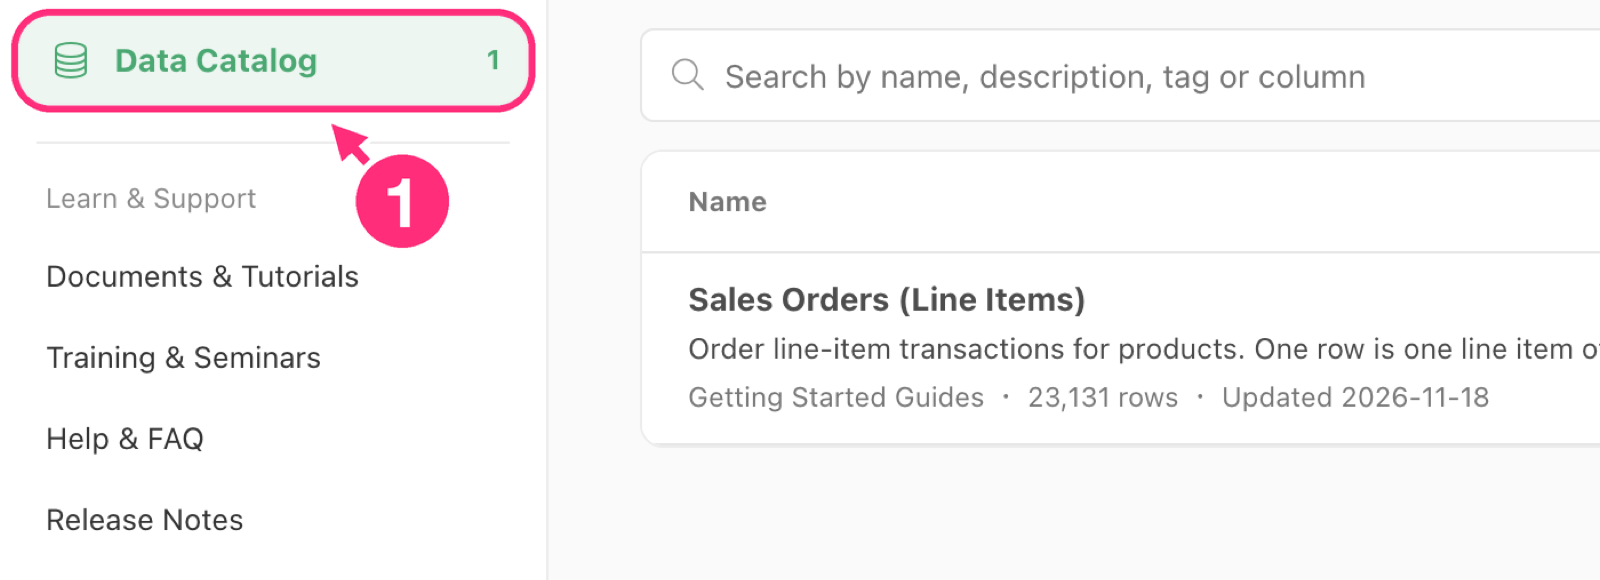
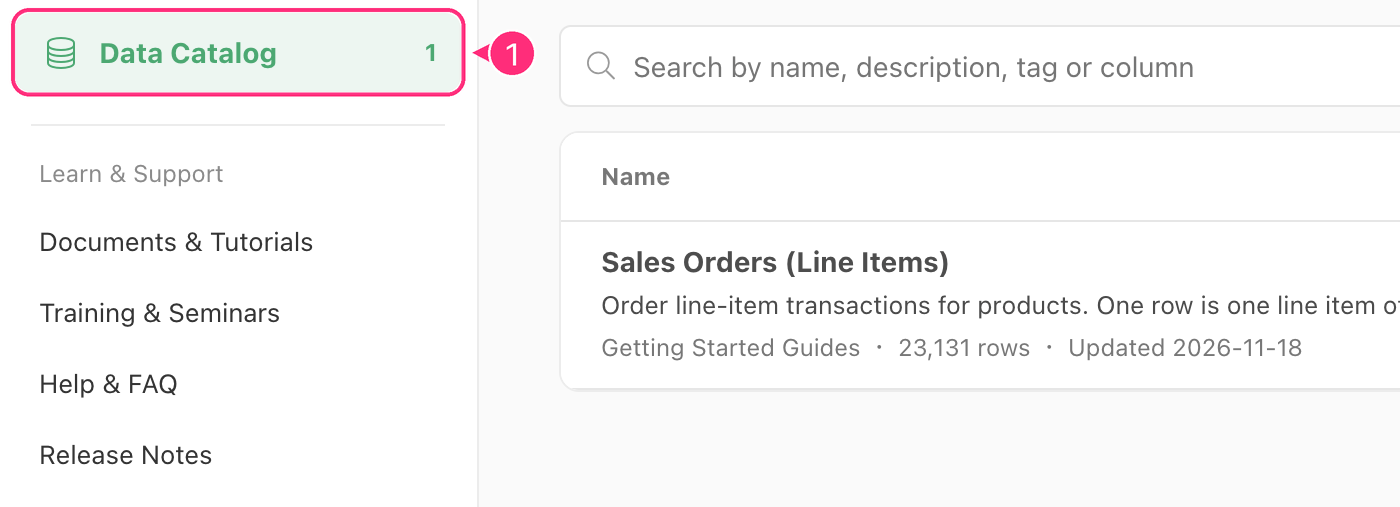
Align English data catalog docs with the re-shot screens; mark the schedule save button and redo the local list mark at one size

diff --git a/en/data-catalog/import.md b/en/data-catalog/import.md
@@ -12,7 +12,7 @@ In the "Import from Data Catalog" dialog, you can do more than bring published d
 2. In the Data Import menu, choose "Data Catalog"
 3. At the top of the "Import from Data Catalog" dialog, choose the "Server" or "Local" tab, depending on where the data is
 
-"Server" is the data catalog of Exploratory Server, and "Local" is the data catalog on this PC. The "Local" tab shows how many data items it holds. The tab you opened last is used the next time you open the dialog. In the image, the "Local" tab lists its data items. Data you have already imported is marked "Imported".
+"Server" is the data catalog of Exploratory Server, and "Local" is the data catalog on this PC. The "Local" tab shows how many data items it holds. The tab you opened last is used the next time you open the dialog. In the image, the "Local" tab lists three data items: "Orders", "Products" and "Customers".
 
 ![](images/en/dc-import-dialog.png)
 
@@ -42,7 +42,7 @@ When you choose data, the screen switches to one that shows the contents of the 
 
 Only the rows that match are imported. The sentence at the bottom becomes "Import {N} rows that match the filter."
 
-The next image shows an example with filters applied.
+The next image shows an example with two filters, "order_date: 2025-01-01 to 2025-12-31" and "channel: EC", that narrow 50,000 rows to 9,135.
 
 ![](images/en/dc-import-filter.png)
 
@@ -56,7 +56,7 @@ The following filters cannot be used for import. In that case, remove the filter
 1. Click "Columns" above the table. After you choose, it changes to "Columns {shown}/{total}"
 2. Check the columns to import. The search box narrows the column names. "Select all" and "Clear all" are also available
 
-The image shows a state where only some of the columns are chosen.
+The image shows a state where 5 of the 13 columns are chosen. "sales" is typed in the search box, and the "sales" column is chosen.
 
 Only the chosen columns are imported. The sentence at the bottom becomes "Import all {N} rows, with {chosen} of {total} columns." When a filter is also set, it becomes "Import {N} rows that match the filter, with {chosen} of {total} columns." At least one column must stay selected. A column used as a join key cannot be removed.
 
@@ -73,7 +73,7 @@ A join connects columns of other data in the Data Catalog to the data you import
 5. In the "Data to join: “{title}”" section, you can choose the columns, filters, and aggregation of the data to join, before joining
 6. The bottom of the screen shows the match rate and the number of rows after the join, for example "{N}% of {title} ({count} rows) found a match in {right} · {rows} rows after the join"
 
-The next image shows the join dialog before you click "Join". ①, ② and ③ on the screen correspond to steps 3, 4 and 5.
+The next image shows the dialog that joins "Products" to "Orders" with product_id as the key, before you click "Join". ①, ② and ③ on the screen correspond to steps 3, 4 and 5. The match rate is 100% (9,135 rows), and the result is 9,135 rows after the join.
 
 ![](images/en/dc-import-join.png)
 
@@ -95,7 +95,7 @@ An aggregation puts each group into one row before importing.
 
 The aggregation covers the rows left after filtering. The sentence at the bottom becomes "Import {N} rows (one per group) of the summary. Totals and subtotals are not imported." When you aggregate joined data, it becomes "Import {N} rows (one per group), aggregated from {original} + {joined}."
 
-The next image shows an example that groups joined data and totals a value with Sum.
+The next image shows an example that groups the joined data by "category" and "order_date" (by month) and totals "sales" with Sum. It makes 60 rows.
 
 ![](images/en/dc-import-aggregate.png)
 
@@ -106,7 +106,7 @@ An aggregation that has columns (a pivot table) cannot be imported. In that case
 1. Check the settings and click "Import"
 2. Enter a name for the data frame and click "OK"
 
-The imported data is added to the project as a data frame. It appears in the Steps panel on the right as a "Data Catalog" step, as the image shows.
+The imported data is added to the project as a data frame. It appears in the Steps panel on the right as a "Data Catalog" step, as the image shows. The image is an example where a data frame of 60 rows and 3 columns (category, order_date, sales) was created.
 
 ![](images/en/dc-import-result.png)
 

diff --git a/en/data-catalog/publish.md b/en/data-catalog/publish.md
@@ -38,11 +38,11 @@ To update data you have already published, publish it again in the same way. Whe
 
 ## See the local Data Catalog list
 
-The "Data Catalog" tab of the window that lists your projects shows the local data catalog on this PC. In the image, ❶ is that tab. The number is how many data items it holds. This image is from before anything was published, so it shows 0.
+The "Data Catalog" tab of the window that lists your projects shows the local data catalog on this PC. In the image, ❶ is that tab. The number is how many data items it holds. In the image, the catalog holds 1 data item.
 
 ![](images/en/dc-local-01.png)
 
-Data you publish to Local appears in the list. In each row, check the number of rows, the refresh status, and the MCP checkbox.
+Data you publish to Local appears in the list. The next image is the list after "Orders", "Products" and "Customers" of the "Sales Analysis" project were published to Local. The search box is filtered by "Sales Analysis". In each row, check the number of rows, the refresh status, and the MCP checkbox.
 
 ![](images/en/dc-local-list.png)
 
@@ -70,7 +70,7 @@ The "⋯" menu at the top right has these actions.
 - **Export as EDF**: Writes the data out as an EDF file
 - **Delete**: Removes it from the catalog. The files saved on this PC are deleted too
 
-The next image shows the details screen on the "Table" tab, with the "⋯" menu open.
+The next image shows the details screen of "Orders" on the "Table" tab, with the "⋯" menu open.
 
 ![](images/en/dc-local-detail.png)
 
@@ -85,11 +85,11 @@ Local data can be refreshed regularly at times you choose. Open the schedule dia
 - You can have a PC notification shown when a refresh fails or succeeds
 - After you choose the times and notifications, click "Save schedule"
 
-The next image shows the schedule dialog. On the "Settings" tab, choose the times and notifications, then click "Save schedule" at the bottom.
+The next image shows the dialog that sets a daily 9:00 refresh for "Orders". On the "Settings" tab, choose the times and notifications, then click "Save schedule" (❶) at the bottom.
 
 ![](images/en/dc-local-schedule.png)
 
-After you save, open the "Run results" tab to see the start time, result, number of rows, duration, and how each run was started (for example, Manual) for recent runs.
+After you save, open the "Run results" tab to see the start time, result, number of rows, duration, and how each run was started (for example, Manual) for recent runs. The next image shows an example with one run that read 50,000 rows again and succeeded.
 
 ![](images/en/dc-local-schedule-history.png)
 

diff --git a/en/data-catalog/ai.md b/en/data-catalog/ai.md
@@ -65,7 +65,7 @@ To import from the screen while filtering and joining, see [Import from the Data
 
 From an AI (such as Claude) connected to the Desktop MCP, you can search the local Data Catalog, read the data, and filter, group, aggregate, or join it. The local Data Catalog works without putting data on the server.
 
-- Only data whose "MCP" checkbox is checked in the list is visible to AI agents. Unchecking it hides the data. The next image shows a list where the checkbox is checked
+- Only data whose "MCP" checkbox is checked in the list is visible to AI agents. Unchecking it hides the data. The next image shows a list where all 3 items are checked
 
 ![](images/en/dc-local-list.png)
 
